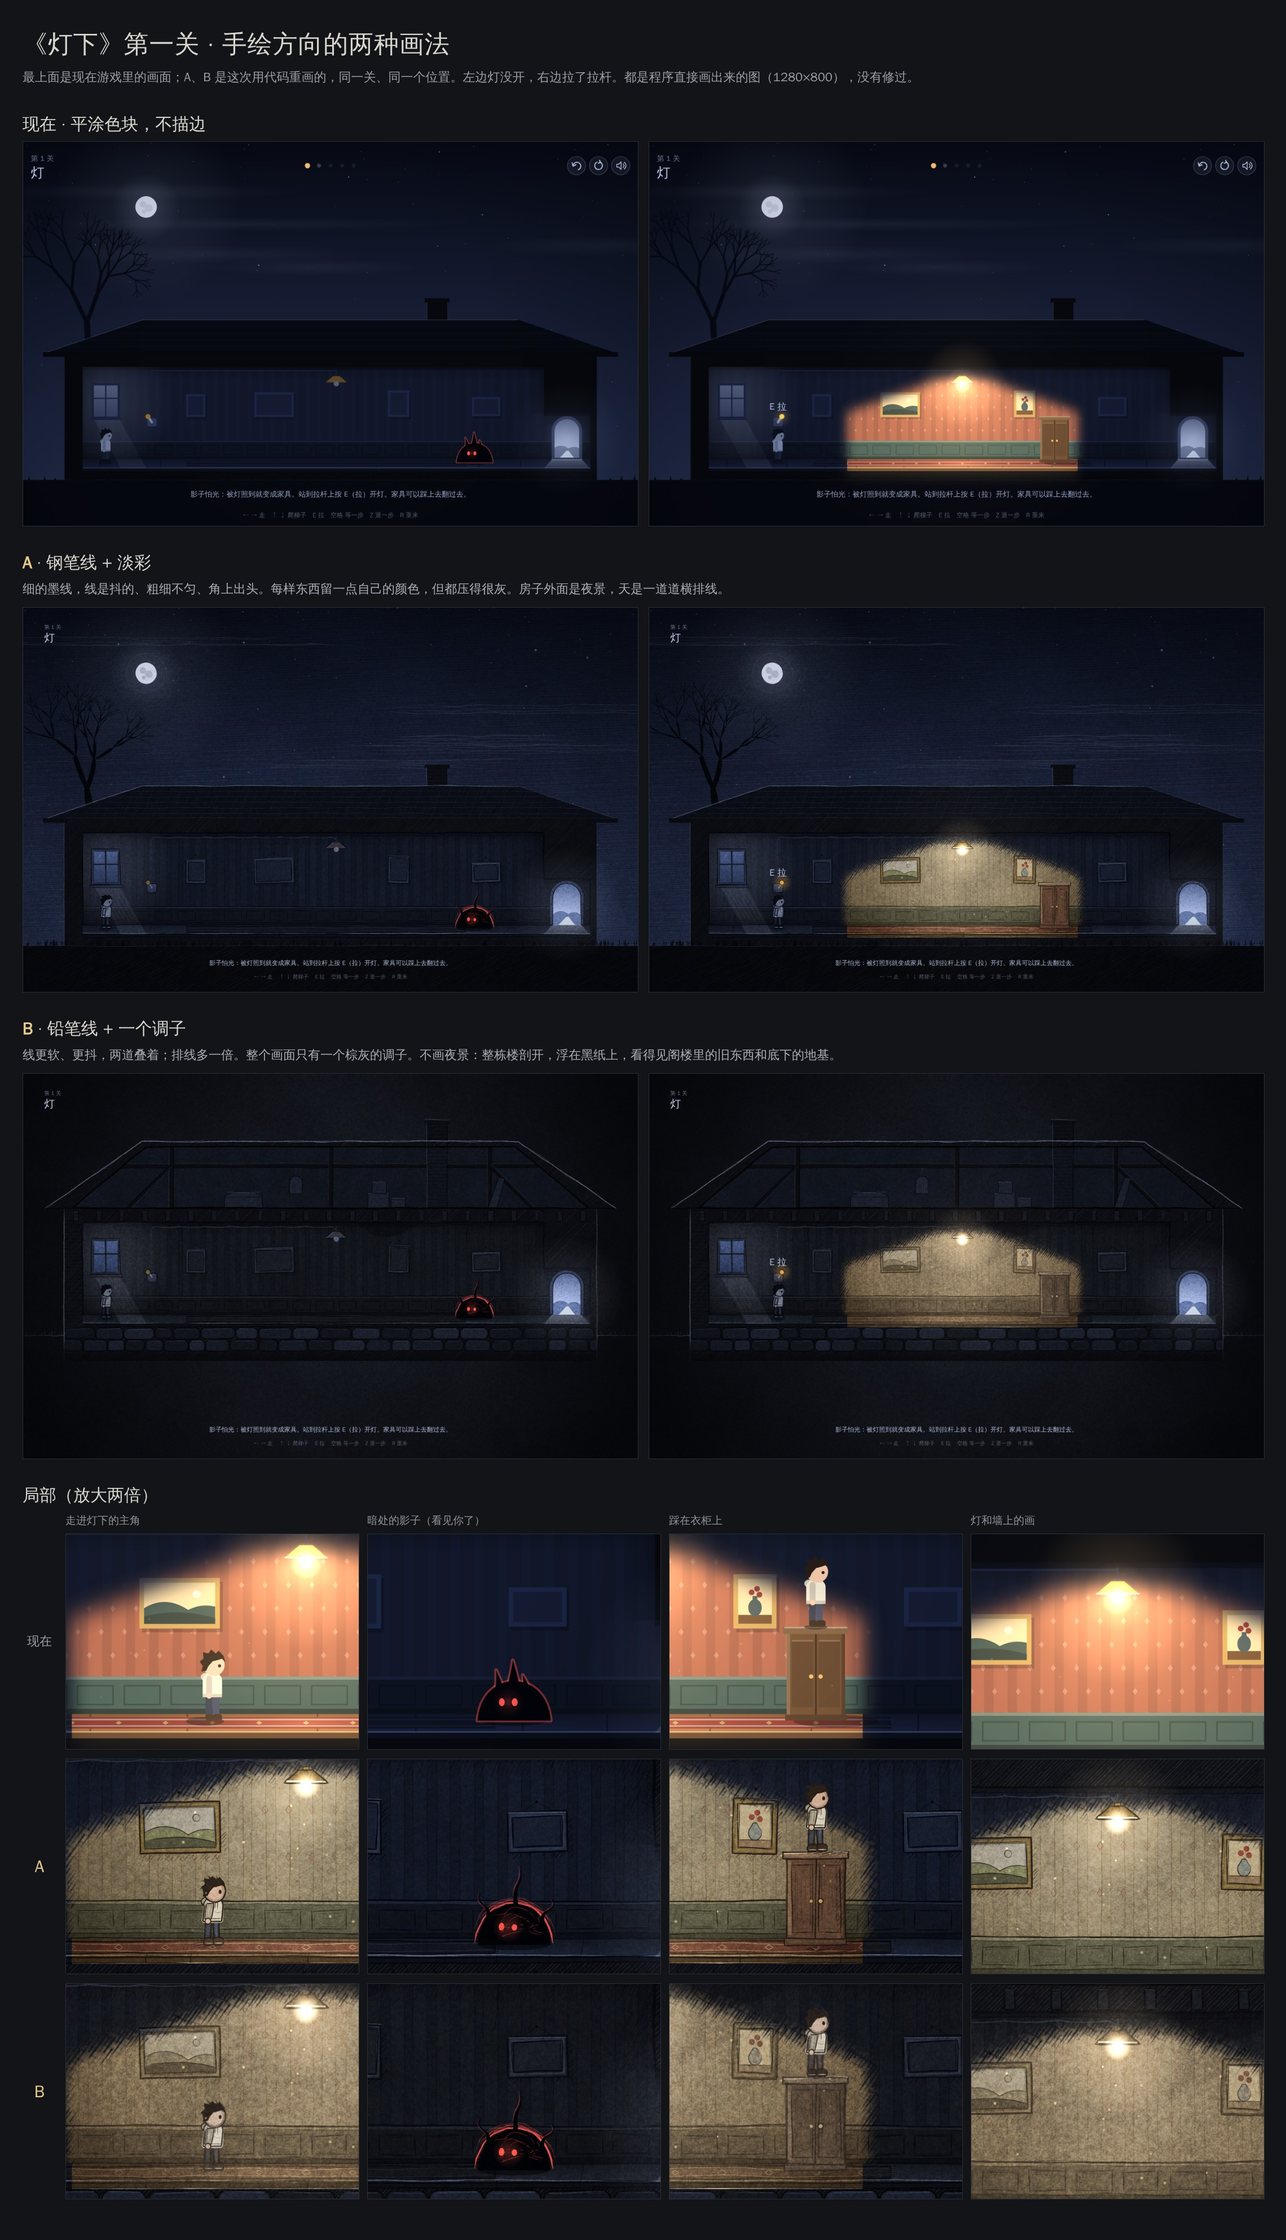
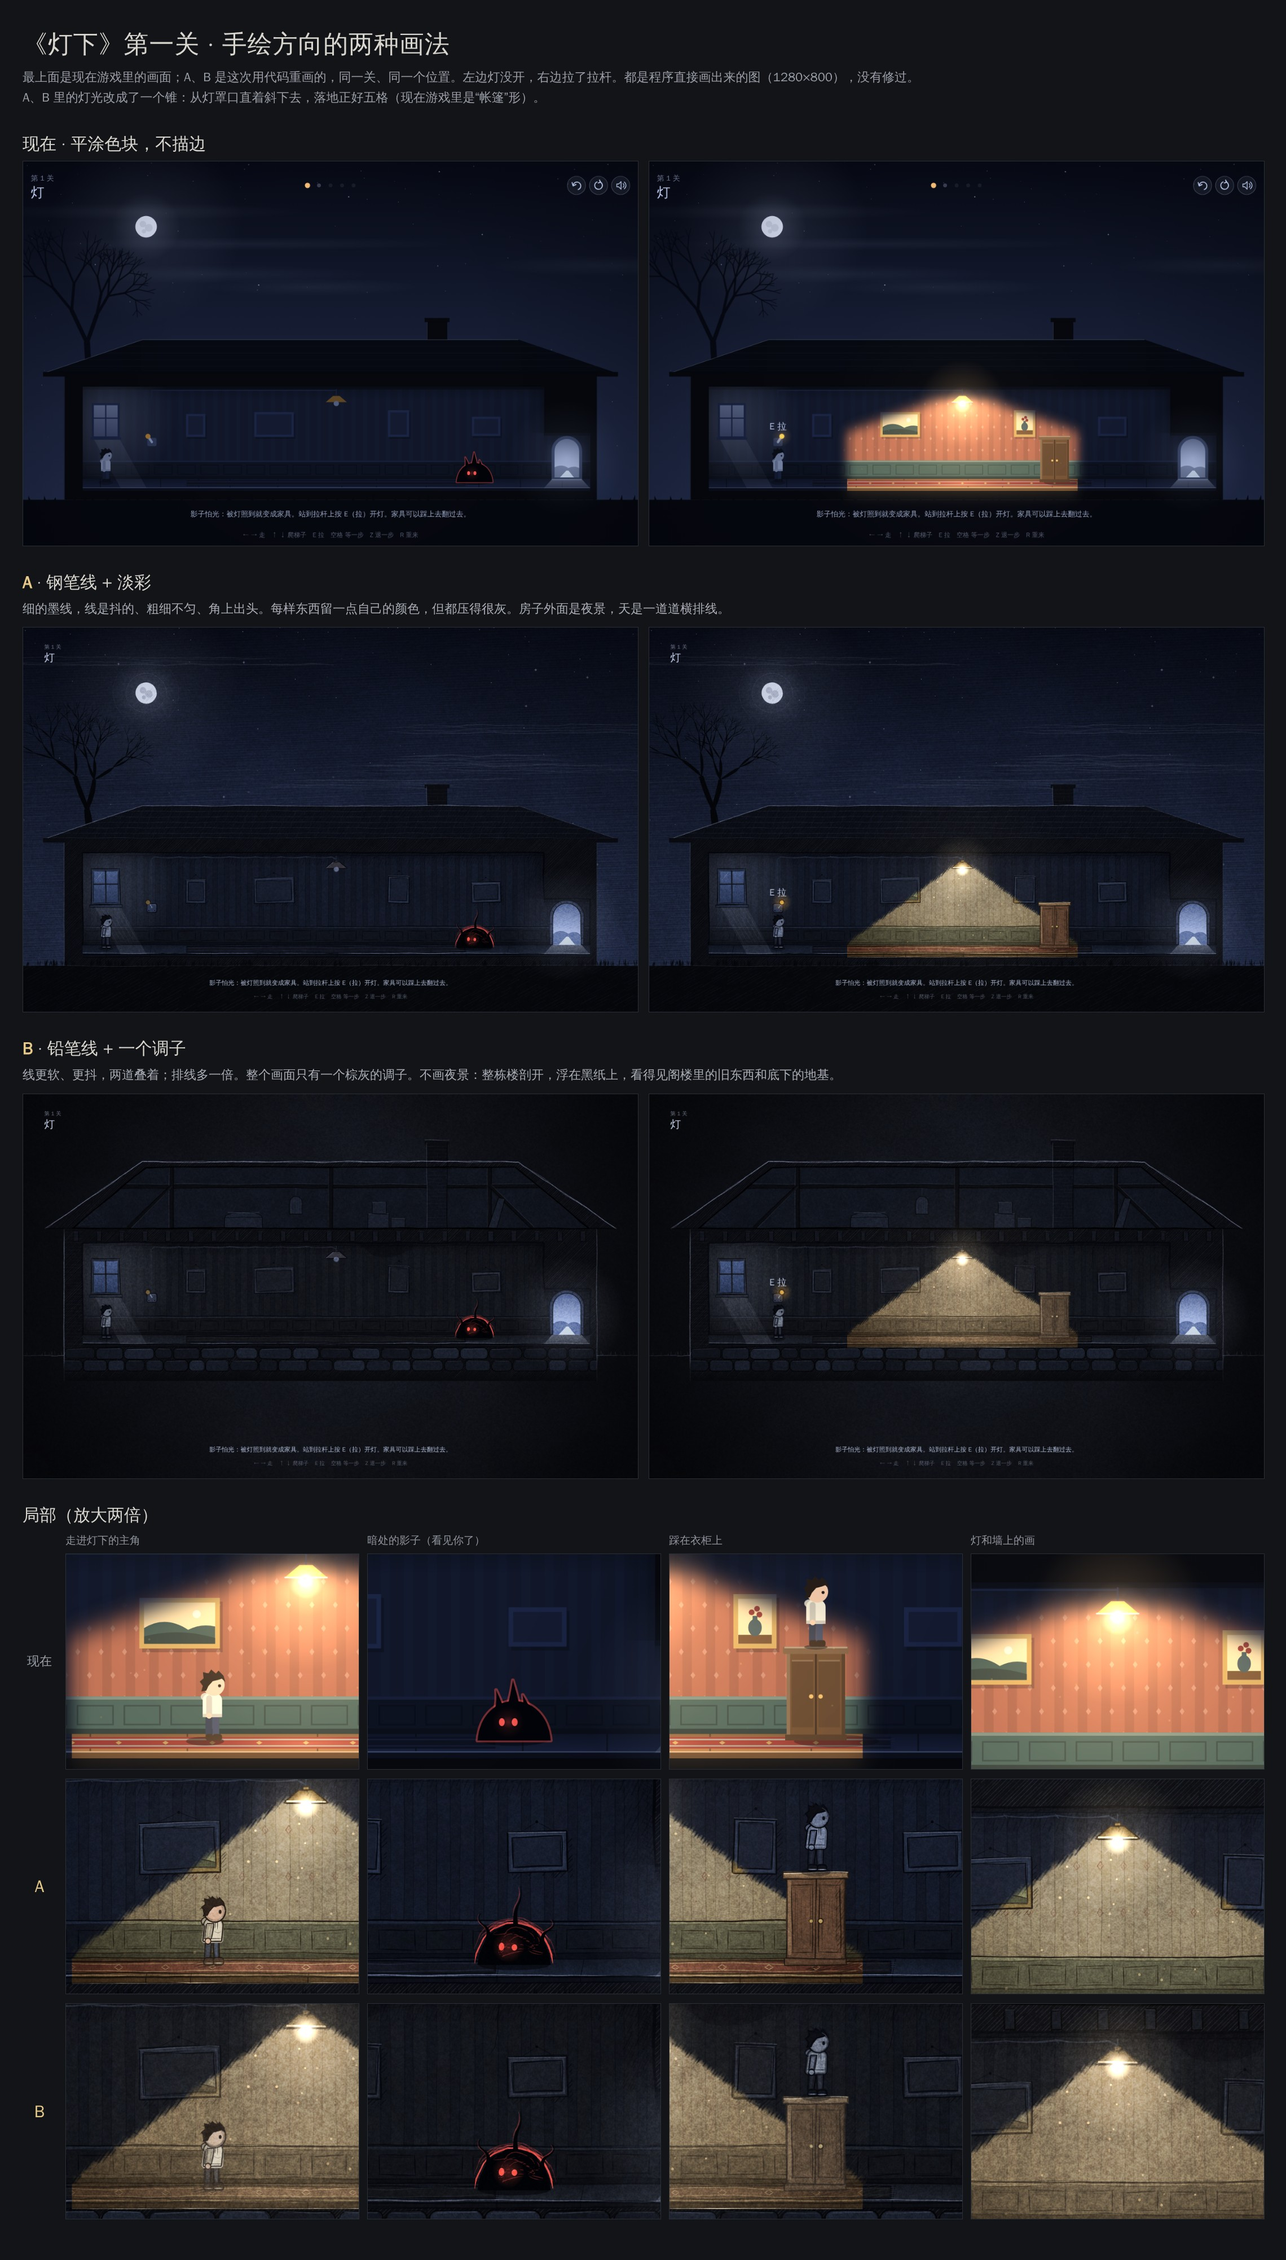
Lamplight look test: draw the lamp light as a cone instead of the tent shape
The owner found the light's shape odd. The game draws a "tent": narrow at
the shade, flaring to the full five cells within the lamp's own row, then
straight down. It keeps every lit cell inside the light but looks like a
squat loaf rather than lamp light.

In the look test (mini/tools/looks.html) the light is now a cone: two
straight edges from the shade's rim down to the floor under the lamp, where
it is exactly five cells wide; no light above the shade. The edges wobble
slightly and are still broken up by the hatching texture. The floor rule is
unchanged: a lit cell's floor is lit to the cell edge.

- Things standing in the two outermost lit cells have a lit floor but are
  mostly outside the cone on the wall (the wardrobe in the sheet).
- The look test counts a cell as lit when the midpoint of its bottom edge
  is inside the cone: five cells in the row on the floor, three in the row
  above. The game's rule is not changed.
- Tried that rule on a scratch copy of lampCells with the solver: each lamp
  loses its two outermost upper-row cells; all five levels still solve with
  the same shortest paths and the same number of states searched.
- Sheet regenerated; added a before/after image
  (generated_images/lamplight-looks-02-cone.jpg). README updated.

Checked: both looks render without page errors at 1x and 2x; gallery page
does not overflow at 1280 and 390 wide; mini/tools/check.mjs passes.

Claude-Session: https://claude.ai/code/session_01RrfmthZ3v39jx98aPP53nn

diff --git a/mini/tools/looks.html b/mini/tools/looks.html
@@ -31,7 +31,11 @@ const LW = MAP[0].length, LH = MAP.length;
 const T = (c, r) => (c < 0 || r < 0 || c >= LW || r >= LH) ? '#' : ('#E1'.includes(MAP[r][c]) ? MAP[r][c] : '.');
 const air = (c, r) => T(c, r) !== '#';
 const LAMP = { c: 6, r: 1 };
-const litCell = (c, r) => air(c, r) && Math.abs(c - LAMP.c) <= 2 && r >= LAMP.r && r <= LAMP.r + 3;   // 灯照到的格子：左右各两格、往下三格
+// 灯光是一个锥：从灯罩口往下张开，落到灯正下方的地板上正好是五格（左右各两格）。
+// 一格算不算照到，看它脚下那条线的中点在不在锥里：贴着地板的那一行是五格，再往上一行只有三格。
+const CONE = (() => { let fr = LAMP.r; while (air(LAMP.c, fr)) fr++; return { x: (LAMP.c + 0.5) * S, y0: (LAMP.r + 0.335) * S, y1: fr * S, w0: 0.23 * S, w1: 2.5 * S }; })();
+const coneHalf = y => CONE.w0 + (CONE.w1 - CONE.w0) * Math.max(0, Math.min(1, (y - CONE.y0) / (CONE.y1 - CONE.y0)));
+const litCell = (c, r) => air(c, r) && r >= LAMP.r && (r + 1) * S <= CONE.y1 + 0.01 && Math.abs(c - LAMP.c) * S <= coneHalf((r + 1) * S) + 0.01;
 const DECOR = [{ t: 'window', c: 1.5, r: 1.74 }, { t: 'picture', c: 3.45, r: 1.84, w: 0.42, h: 0.5, k: 'sea' }, { t: 'picture', c: 5.15, r: 1.82, w: 0.86, h: 0.54, k: 'hills' },
   { t: 'picture', c: 7.85, r: 1.8, w: 0.46, h: 0.58, k: 'vase' }, { t: 'picture', c: 9.75, r: 1.86, w: 0.62, h: 0.42, k: 'hills' }];
 const RUG = { c0: 3.25, c1: 9.3, r: 2 };
@@ -546,16 +550,17 @@ function drawLamp(ctx, L, st) {
   ctx.fillStyle = on ? '#fff6dc' : '#5a6480'; ctx.beginPath(); ctx.arc(x, y + S * 0.365, S * 0.058, 0, 7); ctx.fill();
   ink(ctx, arcPts(x, y + S * 0.365, S * 0.058, S * 0.058, -0.2, Math.PI + 0.2, 8), { w: 0.7, a: on ? 0.5 : 0.9, single: 1 });
 }
-function drawLight(ctx, L, st) {   // 光本身：加在所有东西上面的一层暖色，灯泡周围最亮；灯泡底下几道短线
+function drawLight(ctx, L, st) {   // 光本身：加在所有东西上面的一层暖色，灯泡周围最亮；灯泡底下几道短线，锥里几道顺着光的细线
   if (!st.lamp) return;
   const x = (LAMP.c + 0.5) * S, y = (LAMP.r + 0.365) * S;
   ctx.save(); ctx.globalCompositeOperation = 'lighter';
   glow(ctx, x, y + S * 0.5, S * 2.6, '#ffd9a0', 0.05); glow(ctx, x, y, S * 0.75, '#ffd9a0', 0.2); glow(ctx, x, y, S * 0.15, '#fff4de', 0.9);
   ctx.save(); ctx.beginPath(); ctx.rect((LAMP.c - 2) * S, 3 * S, S * 5, FLOORH); ctx.clip(); ctx.translate(x, 3 * S + FLOORH * 0.5); ctx.scale(1, 0.1); glow(ctx, 0, 0, S * 2, '#ffd9a0', 0.14); ctx.restore();
   const r = rnd(83); ctx.fillStyle = '#ffd9a0';   // 光里的灰尘
-  for (let j = 0; j < 26; j++) { const dy = 0.15 + r() * 1.45, hw = Math.min(2.4, 0.5 + 2.8 * dy) * 0.92, cx = LAMP.c + 0.5 + (r() * 2 - 1) * hw, cy = LAMP.r + 0.34 + dy; if (!litCell(Math.floor(cx), Math.floor(cy))) continue; ctx.globalAlpha = 0.12 + r() * 0.3; ctx.beginPath(); ctx.arc(cx * S, cy * S, 0.9 + r() * 0.5, 0, 7); ctx.fill(); }
+  for (let j = 0; j < 26; j++) { const yy = CONE.y0 + (0.08 + r() * 0.9) * (CONE.y1 - CONE.y0), xx = CONE.x + (r() * 2 - 1) * coneHalf(yy) * 0.9; ctx.globalAlpha = 0.12 + r() * 0.3; ctx.beginPath(); ctx.arc(xx, yy, 0.9 + r() * 0.5, 0, 7); ctx.fill(); }
   ctx.globalAlpha = 1; ctx.restore();
   ctx.pen = { ...L.pen, col: '#fff0cc' }; ctx.seedN = 8300;
+  for (const t of [-0.8, -0.42, 0.02, 0.45, 0.82]) ink(ctx, seg(CONE.x + t * CONE.w0, CONE.y0 + 5, CONE.x + t * CONE.w1 * 0.97, CONE.y1 - 4), { a: 0.07, w: 0.9, taper: 50, amp: 0.6, single: 1 });   // 几道顺着光往下的细线
   for (let i = 0; i < 7; i++) { const a = 0.35 + i * (Math.PI - 0.7) / 6, r0 = S * 0.12, r1 = S * (0.17 + (i % 2) * 0.035); ink(ctx, seg(x + Math.cos(a) * r0, y + Math.sin(a) * r0, x + Math.cos(a) * r1, y + Math.sin(a) * r1), { a: 0.55, w: 0.8, taper: 4, single: 1 }); }
 }
 // 影子：一团涂黑的乱线，一双眼睛。看见你的时候边和眼睛是红的
@@ -641,29 +646,18 @@ function drawPlayer(ctx, L, st) {
 }
 
 // ---------- 光的形状 ----------
-// 和游戏里一样的“帐篷”：灯罩口很窄，往下很快张开，到地面正好是规则里的五格；地板不带软边，照到哪一格就亮到那一格的边。
-// 不一样的是墙上那道软边按一张排线图打散了：暗处的排线一道道伸进光里，越往里越稀，不是一道光滑的渐变。
+// 一个锥：两条边从灯罩口直着斜下去，落地正好是规则里的五格；灯罩上面没有光。地板不带软边，照到哪一格就亮到那一格的边。
+// 锥的两条边稍微有点晃，再按一张排线图打散：暗处的排线一道道伸进光里。
 function buildMask(L, dpr, on) {
   const [cv, x] = mk(dpr); if (!on) return cv;
-  const MR = 10, c0 = LAMP.c - 3, r0 = LAMP.r - 1, cw = 7, ch = 6, w = cw * MR, h = ch * MR, a = new Float32Array(w * h);
-  for (let j = 0; j < h; j++) for (let i = 0; i < w; i++) {
-    const xx = c0 + (i + 0.5) / MR, yy = r0 + (j + 0.5) / MR, c = Math.floor(xx), r = Math.floor(yy);
-    let v = litCell(c, r) ? 1 : 0;
-    if (!v && T(c, r) === '#' && ((litCell(c, r - 1) && yy - r < 0.45) || (litCell(c - 1, r) && xx - c < 0.3) || (litCell(c + 1, r) && c + 1 - xx < 0.3))) v = 1;
-    const dy = yy - (LAMP.r + 0.34), dx = Math.abs(xx - (LAMP.c + 0.5));
-    a[j * w + i] = v * clamp((0.7 + 2.8 * Math.max(0, dy) - dx) / 0.5 + 0.5, 0, 1) * clamp(1 + dy / 0.12, 0, 1);
-  }
-  for (let n = 0; n < 2; n++) {
-    const t = new Float32Array(a.length);
-    for (let j = 0; j < h; j++) for (let i = 0; i < w; i++) t[j * w + i] = (a[j * w + Math.max(0, i - 1)] + 2 * a[j * w + i] + a[j * w + Math.min(w - 1, i + 1)]) / 4;
-    for (let j = 0; j < h; j++) for (let i = 0; i < w; i++) a[j * w + i] = (t[Math.max(0, j - 1) * w + i] + 2 * t[j * w + i] + t[Math.min(h - 1, j + 1) * w + i]) / 4;
-  }
-  const sc = document.createElement('canvas'); sc.width = w; sc.height = h; const sx = sc.getContext('2d'), im = sx.createImageData(w, h);
-  for (let k = 0; k < w * h; k++) { im.data[k * 4] = im.data[k * 4 + 1] = im.data[k * 4 + 2] = 255; im.data[k * 4 + 3] = a[k] * 255; }
-  sx.putImageData(im, 0, 0);
-  x.save(); x.translate(-L.cam.x, -L.cam.y); x.imageSmoothingEnabled = true; x.imageSmoothingQuality = 'high'; x.drawImage(sc, c0 * S, r0 * S, cw * S, ch * S); x.restore();
+  const q = 8, sc = document.createElement('canvas'); sc.width = Math.ceil(W / q); sc.height = Math.ceil(H / q);   // 先画在缩小八倍的小图上，放大以后边自然是软的
+  const sx = sc.getContext('2d'); sx.scale(1 / q, 1 / q); sx.translate(-L.cam.x, -L.cam.y);
+  sx.beginPath(); for (let r = 0; r < LH; r++) for (let c = 0; c < LW; c++) if (air(c, r)) sx.rect(c * S, r * S, S, S + (air(c, r + 1) ? 0 : FLOORH)); sx.clip();   // 光出不了屋子
+  const N = noise(4242), edge = side => { const pts = []; for (let i = 0; i <= 24; i++) { const y = CONE.y0 + (CONE.y1 + FLOORH - CONE.y0) * i / 24; pts.push([CONE.x + side * (coneHalf(y) + (N(i * 0.37 + side * 5) - 0.5) * 5), y]); } return pts; };
+  sx.beginPath(); [...edge(-1), ...edge(1).reverse()].forEach(([a, b], i) => i ? sx.lineTo(a, b) : sx.moveTo(a, b)); sx.closePath(); sx.fillStyle = '#fff'; sx.fill();
+  x.imageSmoothingEnabled = true; x.imageSmoothingQuality = 'high'; x.drawImage(sc, 0, 0, sc.width * q, sc.height * q);
   const [gc, gx] = mk(dpr); gx.drawImage(TEX.hatch, 0, 0, W, H);   // 软边按排线打散
-  const md = x.getImageData(0, 0, cv.width, cv.height), gd = gx.getImageData(0, 0, cv.width, cv.height).data, d = md.data, t = 0.55;
+  const md = x.getImageData(0, 0, cv.width, cv.height), gd = gx.getImageData(0, 0, cv.width, cv.height).data, d = md.data, t = 0.5;
   for (let k = 3; k < d.length; k += 4) { const v = d[k] / 255; if (v <= 0 || v >= 1) continue; const g = gd[k - 3] / 255; d[k] = clamp((v - t * (1 - g)) / (1 - t), 0, 1) * 255; }
   x.putImageData(md, 0, 0);
   x.save(); x.translate(-L.cam.x, -L.cam.y);   // 地板：照到的格子整格亮，没照到的整格暗

diff --git a/README.md b/README.md
@@ -65,12 +65,15 @@
   - 画法又试了一轮（2026-11-17，只是试，游戏本身没动）。仓库主人看了一圈同类游戏以后说的：喜欢 Machinarium、Creaks、THE LONGING；不喜欢 GRIS（颜色鲜艳到不真实）、Night in the Woods（饱和度太高、不真实、画风诡异）、The Silent Age（成年人的形象和画面风格都不好看）。喜欢的那三个的共同点是 Claude 归纳的，主人没有逐条确认：线是手画的，颜色又灰又脏、像真东西，有纸和污渍的质感，房间浮在黑里，主角小而怪。照这个口味推，上面那张标杆画面（不描边的平涂、橙红的墙纸）多半也不对路 —— 这一点也是推的。所以按手绘的方向用代码把第一关重画了两版，放在一个单独的页面里和现在的并排看：
     - `mini/tools/looks.html`：只是画面，不能玩。地图、陈设、每样东西的位置和大小都是从 `lamplight.html` 抄的，所以这里画成什么样，搬回游戏里就是什么样。不带参数打开是两版各两张（灯关 / 灯开）；`?one=a` 或 `?one=b` 只画一张 1280×800，再加 `lit=1` 开灯、`px` `py` 摆主角、`mx` 摆影子、`dpr=2` 画两倍大。预览用 `mini-games`（<http://127.0.0.1:8790/tools/looks.html>），直接双击打开也行。
     - 两版共同的画法：线是一笔笔画出来的 —— 沿着路径左右慢慢晃，粗细跟着变，两头收细；方框是四笔，四个角不对齐、线头出头。颜色不匀，也不正好贴着线，边上积一点深的。暗的地方靠排线。整张画上盖一层纸的颗粒。
-    - 原来那句话没变：暗的一层和亮的一层是同一张画（线的走法一样），暗的那层冷、只有轮廓，亮的那层暖、有细节。灯光的形状和规则也没变（帐篷形；地板照到哪一格就亮到那一格的边），只是墙上那道软边改成按一张排线图打散 —— 暗处的排线一道道伸进光里，越往里越稀。
+    - 原来那句话没变：暗的一层和亮的一层是同一张画（线的走法一样），暗的那层冷、只有轮廓，亮的那层暖、有细节。地板的规矩也没变：照到哪一格就亮到那一格的边。
+    - 灯光的形状改了（2026-11-17，主人看了第一版说“灯光的形状很奇怪”）。游戏里现在是一个“帐篷”：灯罩口窄，往下很快张开，在灯自己那一行就张满五格，再直着落到地板。这是为了让规则里照到的格子全在光里，可画出来像一个扁扁的面包，不像灯照出来的。这里改成一个锥：两条边从灯罩口直着斜下去，落到灯正下方的地板上正好五格，灯罩上面没有光；边稍微有点晃，再按一张排线图打散（暗处的排线一道道伸进光里）。前后对比在 `generated_images/lamplight-looks-02-cone.jpg`。
+      - 代价：站在最外面两格的东西，脚下的地板是亮的，身子大半在锥外面（图里那只衣柜就是）。算不算照到还是看地板。
+      - 规则要不要跟着改成锥，还没定，游戏里没动。这个页面里是按锥算的：贴着地板的那一行五格，再往上一行只有中间三格（一格算不算，看它脚下那条线的中点在不在锥里），所以踩在最边上那只衣柜顶上的主角是暗的。在一份临时拷贝上把 `lampCells` 改成这样跑过求解器：每盏灯少照两格（上面那一行最外面的两格），五关都还能过，最短走法和搜到的局面数一个没变。
     - 影子改成一团涂出来的黑线：一道道粗线叠出来，边是毛的，顶上几缕像烟一样弯着往上飘，两只眼睛不一样大；最外面留一圈边（看见你时是红的），暗处也认得出来。主角加了描边、帽绳、靴底，头发有几根翘出去。
     - **A · 钢笔线 + 淡彩**：细的墨线；每样东西留一点自己的颜色（米灰的墙纸、灰绿的护墙板、暗红的地毯、胡桃木的柜子），都压得很灰。房子外面还是夜景，天用一道道横排线画（斜的看着像下雨）。
     - **B · 铅笔线 + 一个调子**：线更软、更抖，两道叠着，排线多一倍；整个画面只有一个棕灰的调子。不画夜景：整栋楼剖开浮在黑纸上，剖到的墙和楼板打剖面线，看得见阁楼（梁、箱子、鸟笼、蜘蛛网）、楼板里搁栅的头和底下两行地基石。
     - 对比图在 `generated_images/lamplight-looks-01.jpg`：现在的、A、B 各两张（灯关 / 灯开），下面是放大两倍的局部（走进灯下的主角、暗处的影子、踩在衣柜上、灯和墙上的画）。
-    - 查过的：两版在无头 Chrome 里画出来没有报错（1280×800，一倍和两倍）；不带参数的整页在 1280 和 390 宽都不横向溢出；整张和放大的局部都看过；`node mini/tools/check.mjs` 照旧全部通过（游戏没动）。没查的：没在真浏览器和手机上看过；只画了第一关、扑影和衣柜 —— 学影、游影、椅子、座钟、梯子、铁门、踏板都没画；界面上的字照原样放着，没有重新设计；这是一次画好的静止画面，还没按游戏里“人和影子每帧重画”的方式试过快慢。
+    - 查过的：两版在无头 Chrome 里画出来没有报错（1280×800，一倍和两倍）；不带参数的整页在 1280 和 390 宽都不横向溢出；整张和放大的局部都看过，灯光改成锥以后重新画过、看过；`node mini/tools/check.mjs` 照旧全部通过（游戏没动）。没查的：没在真浏览器和手机上看过；只画了第一关、扑影和衣柜 —— 学影、游影、椅子、座钟、梯子、铁门、踏板都没画；界面上的字照原样放着，没有重新设计；这是一次画好的静止画面，还没按游戏里“人和影子每帧重画”的方式试过快慢。
     - 下一步等仓库主人挑：A、B，或者各取一部分。挑定了再搬回 `lamplight.html`、写美术规范。
 - 两个游戏的规则和关卡都放在页面里 `<script id="core">` 那一段（不碰页面）。`node mini/tools/check.mjs` 把这一段拿出来对每一关跑求解器：棱光查“能解、一开始不是解开的、转 90° 以后一样能解”，报最少点几下、有几种解；灯下查“能走出去”、有拉杆的关“不拉拉杆走不出去”，报最短的走法。
 - 进度和静音存在浏览器的 localStorage（`prism.v1`、`lamplight.v1`），读不到就从第一关开始。最多能跳过一关（第 n 关过了，第 n + 2 关就开）。
